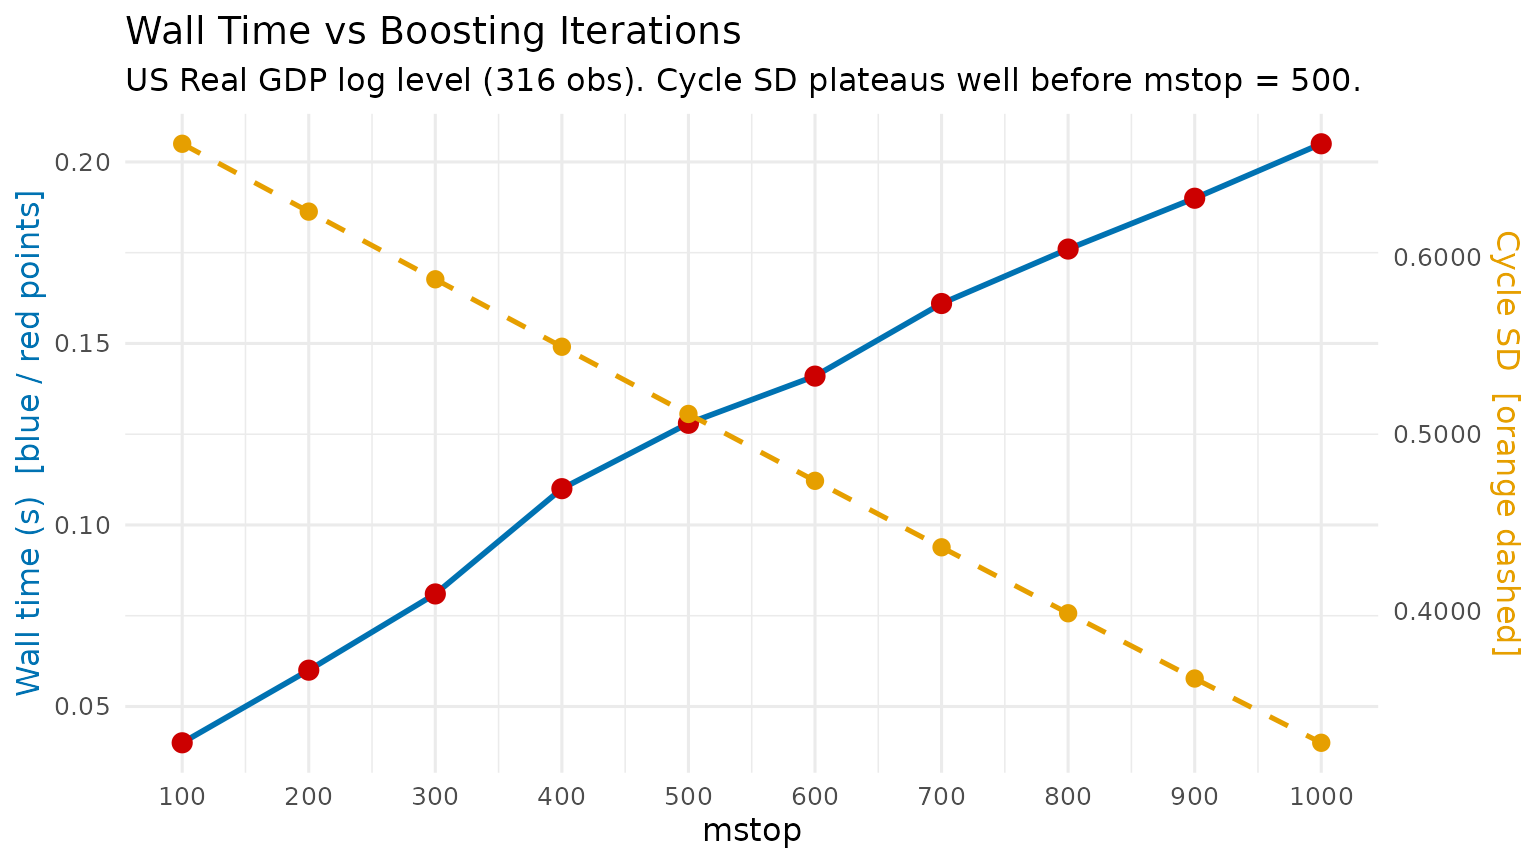
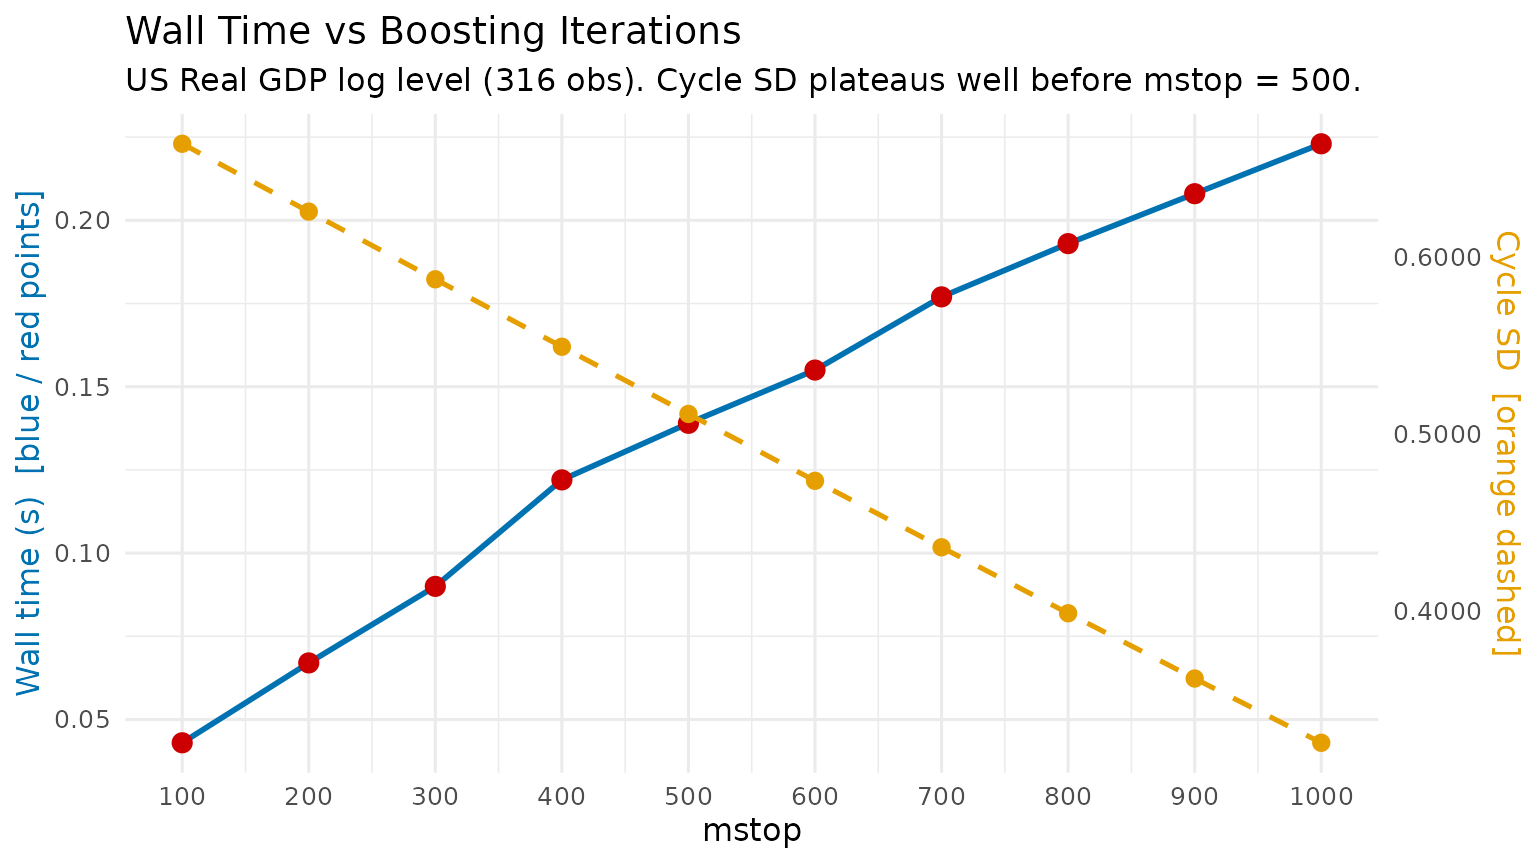
Deploying to gh-pages from @ michal0091/MacroFilters@6bdff4954d9f74d353473b331de12b448e0c716f 🚀

diff --git a/articles/tuning_mbh.html b/articles/tuning_mbh.html
@@ -66,7 +66,7 @@
       <img src="../logo.png" class="logo" alt=""><h1>Hyperparameter Tuning for the MacroBoost Hybrid Filter</h1>
             
       
-      <small class="dont-index">Source: <a href="https://github.com/michal0091/MacroFilters/blob/v0.2.1/vignettes/tuning_mbh.Rmd" class="external-link"><code>vignettes/tuning_mbh.Rmd</code></a></small>
+      <small class="dont-index">Source: <a href="https://github.com/michal0091/MacroFilters/blob/main/vignettes/tuning_mbh.Rmd" class="external-link"><code>vignettes/tuning_mbh.Rmd</code></a></small>
       <div class="d-none name"><code>tuning_mbh.Rmd</code></div>
     </div>
 
@@ -354,52 +354,52 @@ boosting and the trend responds to the COVID shock.</li>
 <tbody>
 <tr class="odd">
 <td align="right">100</td>
-<td align="right">0.040</td>
+<td align="right">0.043</td>
 <td align="right">0.663846</td>
 </tr>
 <tr class="even">
 <td align="right">200</td>
-<td align="right">0.060</td>
+<td align="right">0.067</td>
 <td align="right">0.625541</td>
 </tr>
 <tr class="odd">
 <td align="right">300</td>
-<td align="right">0.081</td>
+<td align="right">0.090</td>
 <td align="right">0.587335</td>
 </tr>
 <tr class="even">
 <td align="right">400</td>
-<td align="right">0.110</td>
+<td align="right">0.122</td>
 <td align="right">0.549249</td>
 </tr>
 <tr class="odd">
 <td align="right">500</td>
-<td align="right">0.128</td>
+<td align="right">0.139</td>
 <td align="right">0.511309</td>
 </tr>
 <tr class="even">
 <td align="right">600</td>
-<td align="right">0.141</td>
+<td align="right">0.155</td>
 <td align="right">0.473548</td>
 </tr>
 <tr class="odd">
 <td align="right">700</td>
-<td align="right">0.161</td>
+<td align="right">0.177</td>
 <td align="right">0.436016</td>
 </tr>
 <tr class="even">
 <td align="right">800</td>
-<td align="right">0.176</td>
+<td align="right">0.193</td>
 <td align="right">0.398778</td>
 </tr>
 <tr class="odd">
 <td align="right">900</td>
-<td align="right">0.190</td>
+<td align="right">0.208</td>
 <td align="right">0.361931</td>
 </tr>
 <tr class="even">
 <td align="right">1000</td>
-<td align="right">0.205</td>
+<td align="right">0.223</td>
 <td align="right">0.325643</td>
 </tr>
 </tbody>

diff --git a/news/index.html b/news/index.html
@@ -35,7 +35,7 @@
 <div class="row">
   <main id="main" class="col-md-9"><div class="page-header">
       <img src="../logo.png" class="logo" alt=""><h1>Changelog</h1>
-      <small>Source: <a href="https://github.com/michal0091/MacroFilters/blob/v0.2.1/NEWS.md" class="external-link"><code>NEWS.md</code></a></small>
+      <small>Source: <a href="https://github.com/michal0091/MacroFilters/blob/main/NEWS.md" class="external-link"><code>NEWS.md</code></a></small>
     </div>
 
     <div class="section level2">
@@ -43,7 +43,12 @@
 <div class="section level3">
 <h3 id="other-changes-0-2-1">Other changes<a class="anchor" aria-label="anchor" href="#other-changes-0-2-1"></a></h3>
 <ul><li>
-<code><a href="../reference/mbh_filter.html">mbh_filter()</a></code>’s automatic knot heuristic is now capped at 250 interior knots (<code>min(max(20, floor(n / 2)), 250)</code>). Series of length &lt;= 500 are unaffected; this only bounds the B-spline basis for long / high-frequency inputs, where additional knots inflate memory and runtime without adding useful flexibility (P-spline smoothness is governed by the penalty, not the knot count).</li>
+<code><a href="../reference/mbh_filter.html">mbh_filter()</a></code>’s automatic knot count is now capped at 250 (<code>min(max(20, floor(n / 2)), 250)</code>). Series of 500 observations or fewer are unaffected; the cap only bounds the B-spline basis for long or high-frequency inputs, where extra knots inflate memory and runtime without adding flexibility (in a P-spline the difference penalty, not the knot count, controls smoothness).</li>
+</ul></div>
+<div class="section level3">
+<h3 id="documentation-0-2-1">Documentation<a class="anchor" aria-label="anchor" href="#documentation-0-2-1"></a></h3>
+<ul><li>Corrected the MBH parameter tables in the <em>Introduction</em> vignette: the <code>d = "auto"</code> default is calibrated from the MAD of the HP cyclical residual (not first differences), and the default learning rate is <code>nu = 0.1</code>.</li>
+<li>Fixed the COVID-19 highlight in the <em>Introduction</em> cycle plot, which was anchored to stale fixed indices instead of the 2020 date window.</li>
 </ul></div>
 </div>
     <div class="section level2">

diff --git a/articles/introduction.html b/articles/introduction.html
@@ -66,7 +66,7 @@
       <img src="../logo.png" class="logo" alt=""><h1>Introduction to MacroFilters</h1>
             
       
-      <small class="dont-index">Source: <a href="https://github.com/michal0091/MacroFilters/blob/v0.2.1/vignettes/introduction.Rmd" class="external-link"><code>vignettes/introduction.Rmd</code></a></small>
+      <small class="dont-index">Source: <a href="https://github.com/michal0091/MacroFilters/blob/main/vignettes/introduction.Rmd" class="external-link"><code>vignettes/introduction.Rmd</code></a></small>
       <div class="d-none name"><code>introduction.Rmd</code></div>
     </div>
 
@@ -489,7 +489,7 @@ a demanding real-world stress test for any trend filter.</p>
 <span><span class="co">#&gt;    Observations : 105</span></span>
 <span><span class="co">#&gt;    Parameters   : knots = 52, d = 0.01463, mstop = 500, mstop_initial = 500, nu = 0.1, df = 4, select_mstop = FALSE</span></span>
 <span><span class="co">#&gt;    Cycle range  : [-0.2231, 0.03137]  sd = 0.02963</span></span>
-<span><span class="co">#&gt;    Compute time : 0.095 s</span></span></code></pre></div>
+<span><span class="co">#&gt;    Compute time : 0.112 s</span></span></code></pre></div>
 <p><img src="introduction_files/figure-html/mbh-plot-1.png" class="r-plt" alt="" width="100%"></p>
 <hr>
 </div>
@@ -570,7 +570,7 @@ object additionally carries two bootstrap confidence bands (see the
 <span><span class="co">#&gt;    Observations : 105</span></span>
 <span><span class="co">#&gt;    Parameters   : knots = 52, d = 0.01463, mstop = 500, mstop_initial = 500, nu = 0.1, df = 4, select_mstop = FALSE</span></span>
 <span><span class="co">#&gt;    Cycle range  : [-0.2231, 0.03137]  sd = 0.02963</span></span>
-<span><span class="co">#&gt;    Compute time : 0.095 s</span></span></code></pre></div>
+<span><span class="co">#&gt;    Compute time : 0.112 s</span></span></code></pre></div>
 <p>The <code>print</code> method shows the method, the number of
 observations, the key parameters, the cycle range, and how long the
 filter took to run.</p>
@@ -605,7 +605,7 @@ filter took to run.</p>
 <span><span class="co">#&gt;  $ df            : int 4</span></span>
 <span><span class="co">#&gt;  $ select_mstop  : logi FALSE</span></span>
 <span><span class="co">#&gt;  $ boundary.knots: NULL</span></span>
-<span><span class="co">#&gt;  $ compute_time  : num 0.095</span></span>
+<span><span class="co">#&gt;  $ compute_time  : num 0.112</span></span>
 <span><span class="co">#&gt;  $ ts_class      : chr "ts"</span></span>
 <span><span class="co">#&gt;  $ tsp           : num [1:3] 2000 2026 4</span></span>
 <span><span class="co">#&gt;  $ idx           : NULL</span></span></code></pre></div>

diff --git a/reference/mbh_filter.html b/reference/mbh_filter.html
@@ -41,7 +41,7 @@ them from distorting the trend."><meta property="og:image" content="https://mich
 <div class="row">
   <main id="main" class="col-md-9"><div class="page-header">
       <img src="../logo.png" class="logo" alt=""><h1>MacroBoost Hybrid (MBH) Filter</h1>
-      <small class="dont-index">Source: <a href="https://github.com/michal0091/MacroFilters/blob/v0.2.1/R/05_algo_mbh.R" class="external-link"><code>R/05_algo_mbh.R</code></a></small>
+      <small class="dont-index">Source: <a href="https://github.com/michal0091/MacroFilters/blob/main/R/05_algo_mbh.R" class="external-link"><code>R/05_algo_mbh.R</code></a></small>
       <div class="d-none name"><code>mbh_filter.Rd</code></div>
     </div>
 
@@ -260,7 +260,7 @@ observations. Keep <code>df = 4</code> (the default) for real-time applications.
 <span class="r-out co"><span class="r-pr">#&gt;</span>    Observations : 80</span>
 <span class="r-out co"><span class="r-pr">#&gt;</span>    Parameters   : knots = 40, d = 1.627, mstop = 100, mstop_initial = 100, nu = 0.1, df = 4, select_mstop = FALSE</span>
 <span class="r-out co"><span class="r-pr">#&gt;</span>    Cycle range  : [-2.66, 4.533]  sd = 1.518</span>
-<span class="r-out co"><span class="r-pr">#&gt;</span>    Compute time : 0.023 s</span>
+<span class="r-out co"><span class="r-pr">#&gt;</span>    Compute time : 0.026 s</span>
 <span class="r-in"><span></span></span>
 <span class="r-in"><span><span class="co"># \donttest{</span></span></span>
 <span class="r-in"><span><span class="co"># Full example with default parameters</span></span></span>
@@ -272,7 +272,7 @@ observations. Keep <code>df = 4</code> (the default) for real-time applications.
 <span class="r-out co"><span class="r-pr">#&gt;</span>    Observations : 200</span>
 <span class="r-out co"><span class="r-pr">#&gt;</span>    Parameters   : knots = 100, d = 1.162, mstop = 500, mstop_initial = 500, nu = 0.1, df = 4, select_mstop = FALSE</span>
 <span class="r-out co"><span class="r-pr">#&gt;</span>    Cycle range  : [-4.077, 3.726]  sd = 1.419</span>
-<span class="r-out co"><span class="r-pr">#&gt;</span>    Compute time : 0.124 s</span>
+<span class="r-out co"><span class="r-pr">#&gt;</span>    Compute time : 0.138 s</span>
 <span class="r-in"><span><span class="co"># }</span></span></span>
 </code></pre></div>
     </div>

diff --git a/CONTRIBUTING.html b/CONTRIBUTING.html
@@ -35,7 +35,7 @@
 <div class="row">
   <main id="main" class="col-md-9"><div class="page-header">
       <img src="logo.png" class="logo" alt=""><h1>Contributing to MacroFilters</h1>
-      <small class="dont-index">Source: <a href="https://github.com/michal0091/MacroFilters/blob/v0.2.1/CONTRIBUTING.md" class="external-link"><code>CONTRIBUTING.md</code></a></small>
+      <small class="dont-index">Source: <a href="https://github.com/michal0091/MacroFilters/blob/main/CONTRIBUTING.md" class="external-link"><code>CONTRIBUTING.md</code></a></small>
     </div>
 
 <div id="contributing-to-macrofilters" class="section level1">

diff --git a/LICENSE.html b/LICENSE.html
@@ -35,7 +35,7 @@
 <div class="row">
   <main id="main" class="col-md-9"><div class="page-header">
       <img src="logo.png" class="logo" alt=""><h1>MIT License</h1>
-      <small class="dont-index">Source: <a href="https://github.com/michal0091/MacroFilters/blob/v0.2.1/LICENSE.md" class="external-link"><code>LICENSE.md</code></a></small>
+      <small class="dont-index">Source: <a href="https://github.com/michal0091/MacroFilters/blob/main/LICENSE.md" class="external-link"><code>LICENSE.md</code></a></small>
     </div>
 
 <div id="mit-license" class="section level1">

diff --git a/articles/real_time_revisions.html b/articles/real_time_revisions.html
@@ -66,7 +66,7 @@
       <img src="../logo.png" class="logo" alt=""><h1>Solving the End-Point Problem in Real-Time</h1>
             
       
-      <small class="dont-index">Source: <a href="https://github.com/michal0091/MacroFilters/blob/v0.2.1/vignettes/real_time_revisions.Rmd" class="external-link"><code>vignettes/real_time_revisions.Rmd</code></a></small>
+      <small class="dont-index">Source: <a href="https://github.com/michal0091/MacroFilters/blob/main/vignettes/real_time_revisions.Rmd" class="external-link"><code>vignettes/real_time_revisions.Rmd</code></a></small>
       <div class="d-none name"><code>real_time_revisions.Rmd</code></div>
     </div>
 

diff --git a/articles/uncertainty_bands.html b/articles/uncertainty_bands.html
@@ -66,7 +66,7 @@
       <img src="../logo.png" class="logo" alt=""><h1>Uncertainty Bands via Block Bootstrap</h1>
             
       
-      <small class="dont-index">Source: <a href="https://github.com/michal0091/MacroFilters/blob/v0.2.1/vignettes/uncertainty_bands.Rmd" class="external-link"><code>vignettes/uncertainty_bands.Rmd</code></a></small>
+      <small class="dont-index">Source: <a href="https://github.com/michal0091/MacroFilters/blob/main/vignettes/uncertainty_bands.Rmd" class="external-link"><code>vignettes/uncertainty_bands.Rmd</code></a></small>
       <div class="d-none name"><code>uncertainty_bands.Rmd</code></div>
     </div>
 

diff --git a/authors.html b/authors.html
@@ -48,7 +48,7 @@
 
     <div class="section level2">
       <h2 id="citation">Citation</h2>
-      <p><small class="dont-index">Source: <a href="https://github.com/michal0091/MacroFilters/blob/v0.2.1/inst/CITATION" class="external-link"><code>inst/CITATION</code></a></small></p>
+      <p><small class="dont-index">Source: <a href="https://github.com/michal0091/MacroFilters/blob/main/inst/CITATION" class="external-link"><code>inst/CITATION</code></a></small></p>
 
       <p>Kinel M (2026).
 <em>MacroFilters: Robust Trend-Cycle Decomposition for Macroeconomic Time Series</em>.

diff --git a/reference/autoplot.macrofilter.html b/reference/autoplot.macrofilter.html
@@ -41,7 +41,7 @@ the lines automatically."><meta property="og:image" content="https://michal0091.
 <div class="row">
   <main id="main" class="col-md-9"><div class="page-header">
       <img src="../logo.png" class="logo" alt=""><h1>Plot a macrofilter decomposition with ggplot2</h1>
-      <small class="dont-index">Source: <a href="https://github.com/michal0091/MacroFilters/blob/v0.2.1/R/autoplot.R" class="external-link"><code>R/autoplot.R</code></a></small>
+      <small class="dont-index">Source: <a href="https://github.com/michal0091/MacroFilters/blob/main/R/autoplot.R" class="external-link"><code>R/autoplot.R</code></a></small>
       <div class="d-none name"><code>autoplot.macrofilter.Rd</code></div>
     </div>
 

diff --git a/reference/bhp_filter.html b/reference/bhp_filter.html
@@ -45,7 +45,7 @@ number of iterations."><meta property="og:image" content="https://michal0091.git
 <div class="row">
   <main id="main" class="col-md-9"><div class="page-header">
       <img src="../logo.png" class="logo" alt=""><h1>Boosted HP Filter</h1>
-      <small class="dont-index">Source: <a href="https://github.com/michal0091/MacroFilters/blob/v0.2.1/R/04_algo_bhp.R" class="external-link"><code>R/04_algo_bhp.R</code></a></small>
+      <small class="dont-index">Source: <a href="https://github.com/michal0091/MacroFilters/blob/main/R/04_algo_bhp.R" class="external-link"><code>R/04_algo_bhp.R</code></a></small>
       <div class="d-none name"><code>bhp_filter.Rd</code></div>
     </div>
 

diff --git a/reference/es_gdp.html b/reference/es_gdp.html
@@ -41,7 +41,7 @@ Original source: Eurostat/OECD National Accounts via FRED."><meta property="og:i
 <div class="row">
   <main id="main" class="col-md-9"><div class="page-header">
       <img src="../logo.png" class="logo" alt=""><h1>Spain Real GDP — FRED Vintage</h1>
-      <small class="dont-index">Source: <a href="https://github.com/michal0091/MacroFilters/blob/v0.2.1/R/data.R" class="external-link"><code>R/data.R</code></a></small>
+      <small class="dont-index">Source: <a href="https://github.com/michal0091/MacroFilters/blob/main/R/data.R" class="external-link"><code>R/data.R</code></a></small>
       <div class="d-none name"><code>es_gdp.Rd</code></div>
     </div>
 